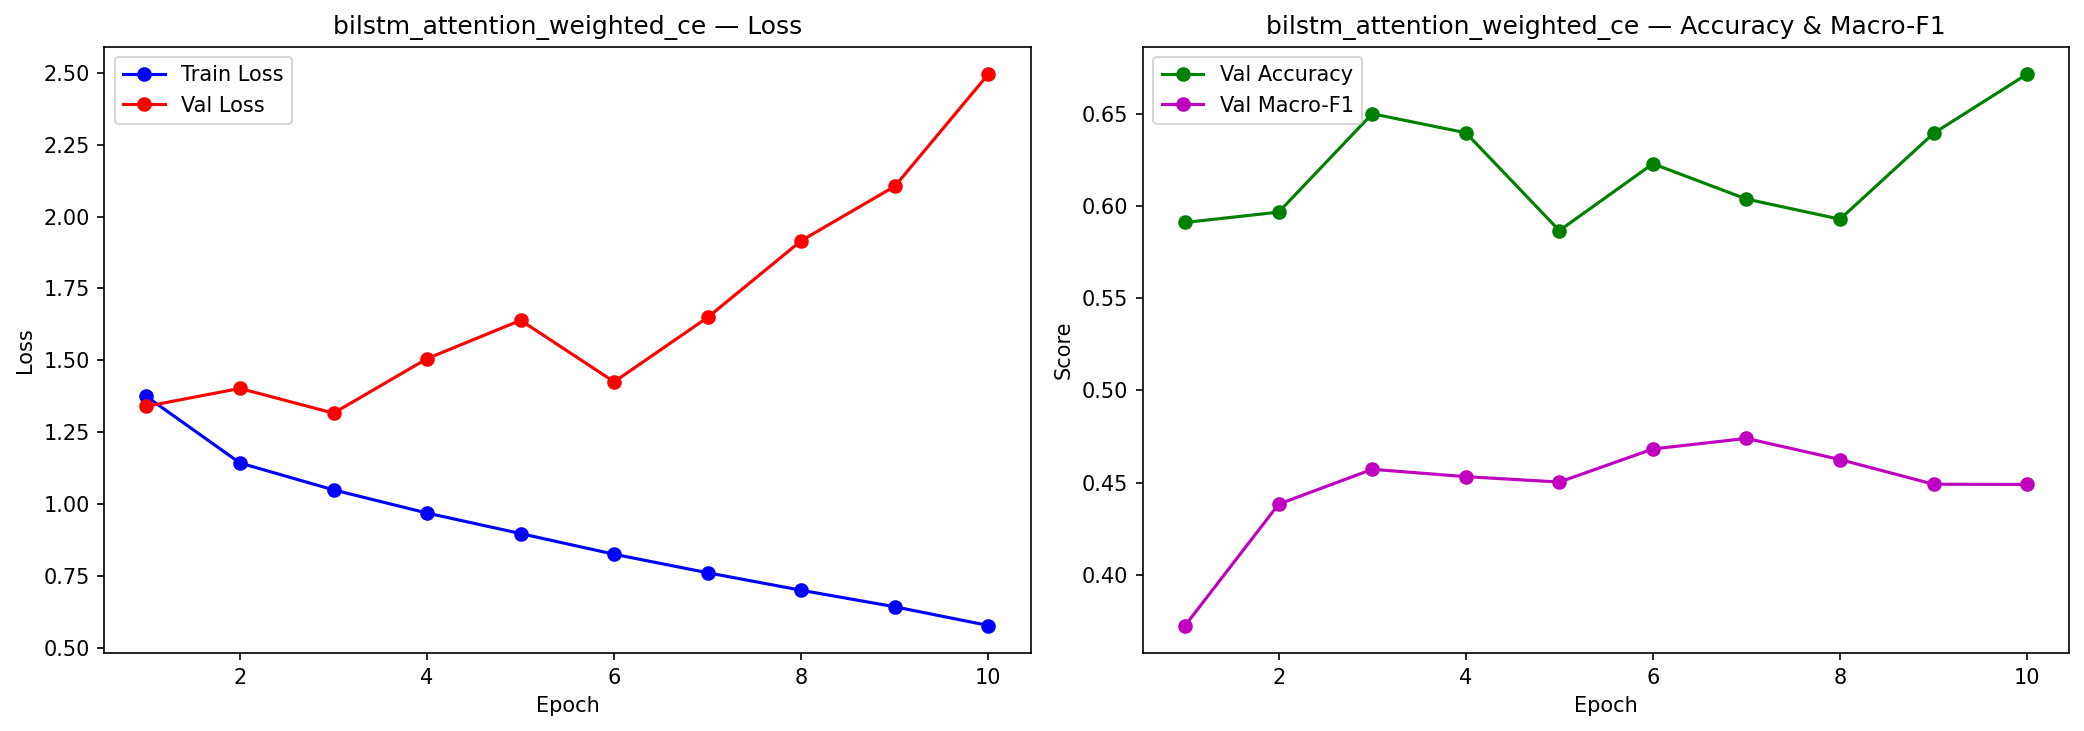
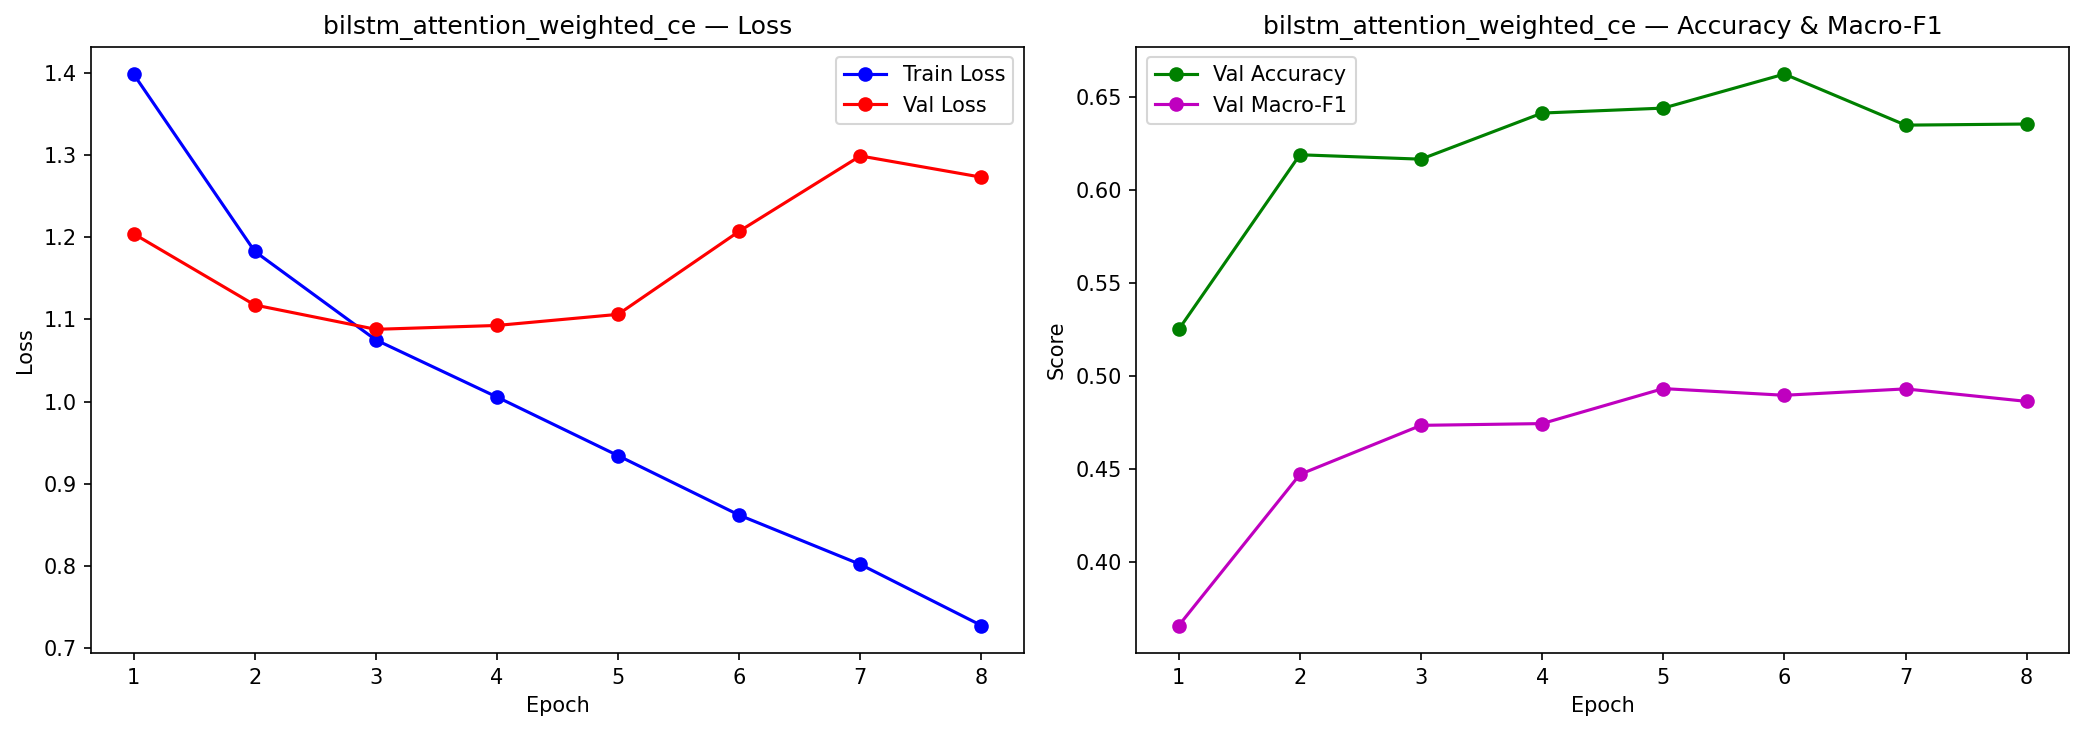
add fintune experiment result

diff --git a/kaggle_runner.py b/kaggle_runner.py
@@ -72,12 +72,12 @@ else:
 print("\n[INFO] Bat dau training ...")
 
 # BiLSTM
-# run("python scripts/train_bilstm.py --imbalance weighted_ce")
-# run("python scripts/train_bilstm.py --imbalance undersample_ce")
+run("python scripts/train_bilstm.py --imbalance weighted_ce")
+run("python scripts/train_bilstm.py --imbalance undersample_ce")
 
 # BiLSTM + Attention
-# run("python scripts/train_bilstm_attention.py --imbalance weighted_ce")
-# run("python scripts/train_bilstm_attention.py --imbalance undersample_ce")
+run("python scripts/train_bilstm_attention.py --imbalance weighted_ce")
+run("python scripts/train_bilstm_attention.py --imbalance undersample_ce")
 
 # DistilBERT
 # run("python scripts/train_distilbert.py --finetune full --imbalance weighted_ce")
@@ -92,8 +92,8 @@ print("\n[INFO] Bat dau training ...")
 # run("python scripts/train_transformer_large.py --finetune full --imbalance undersample_ce")
 # run("python scripts/train_transformer_large.py --finetune freeze --imbalance weighted_ce")
 # run("python scripts/train_transformer_large.py --finetune freeze --imbalance undersample_ce")
-run("python scripts/train_transformer_large.py --finetune llrd --imbalance weighted_ce")
-run("python scripts/train_transformer_large.py --finetune llrd --imbalance undersample_ce")
+# run("python scripts/train_transformer_large.py --finetune llrd --imbalance weighted_ce")
+# run("python scripts/train_transformer_large.py --finetune llrd --imbalance undersample_ce")
 
 # --- (Tuy chon) Post-training analysis ----------------------------------------
 # run("python scripts/evaluate_all.py")

diff --git a/README.md b/README.md
@@ -74,6 +74,29 @@ python scripts/evaluate_all.py
 # → outputs/tables/model_comparison.csv
 ```
 
+## Latest Model Comparison Results
+
+Source: `outputs/tables/model_comparison.csv`
+
+| model_name | accuracy | macro_f1 | weighted_f1 | precision | recall | model_size_mb | inference_time_per_sample_ms |
+|---|---:|---:|---:|---:|---:|---:|---:|
+| bilstm_weighted_ce | 0.6074 | 0.4758 | 0.6183 | 0.4623 | 0.4948 | 15.25 | 1.1469 |
+| bilstm_undersample_ce | 0.5432 | 0.3825 | 0.5544 | 0.3779 | 0.4253 | 12.08 | 1.0841 |
+| bilstm_attention_weighted_ce | 0.6477 | 0.5022 | 0.6525 | 0.4948 | 0.5134 | 15.25 | 1.1822 |
+| bilstm_attention_undersample_ce | 0.5758 | 0.3882 | 0.5653 | 0.3857 | 0.4164 | 12.08 | 1.1243 |
+| distilbert_freeze_weighted_ce | 0.5490 | 0.2826 | 0.5302 | 0.2901 | 0.2961 | 253.17 | 18.4477 |
+| distilbert_freeze_undersample_ce | 0.4309 | 0.1944 | 0.4033 | 0.2634 | 0.2353 | 253.17 | 22.0174 |
+| distilbert_full_weighted_ce | 0.6592 | 0.5392 | 0.6703 | 0.5509 | 0.5433 | 253.17 | 22.1121 |
+| distilbert_full_undersample_ce | 0.6306 | 0.5181 | 0.6432 | 0.4971 | 0.5537 | 253.17 | 24.6578 |
+| distilbert_llrd_weighted_ce | 0.6604 | 0.5428 | 0.6714 | 0.5413 | 0.5528 | 253.17 | 25.9265 |
+| distilbert_llrd_undersample_ce | 0.6295 | 0.5114 | 0.6410 | 0.4903 | 0.5495 | 253.17 | 30.8181 |
+| bert_freeze_weighted_ce | 0.4901 | 0.2525 | 0.4682 | 0.2601 | 0.2607 | 417.66 | 58.1530 |
+| bert_freeze_undersample_ce | 0.3711 | 0.2267 | 0.4032 | 0.2363 | 0.2363 | 417.66 | 59.8117 |
+| bert_full_weighted_ce | 0.6630 | 0.5474 | 0.6765 | 0.5579 | 0.5525 | 417.66 | 65.6044 |
+| bert_full_undersample_ce | 0.6574 | 0.5391 | 0.6646 | 0.5207 | 0.5740 | 417.66 | 63.3480 |
+| bert_llrd_weighted_ce | 0.6825 | 0.5646 | 0.6891 | 0.5636 | 0.5690 | 417.66 | 58.7579 |
+| bert_llrd_undersample_ce | 0.6580 | 0.5247 | 0.6615 | 0.5190 | 0.5424 | 417.66 | 60.6179 |
+
 ## Imbalance Strategy Comparison
 
 ```bash
